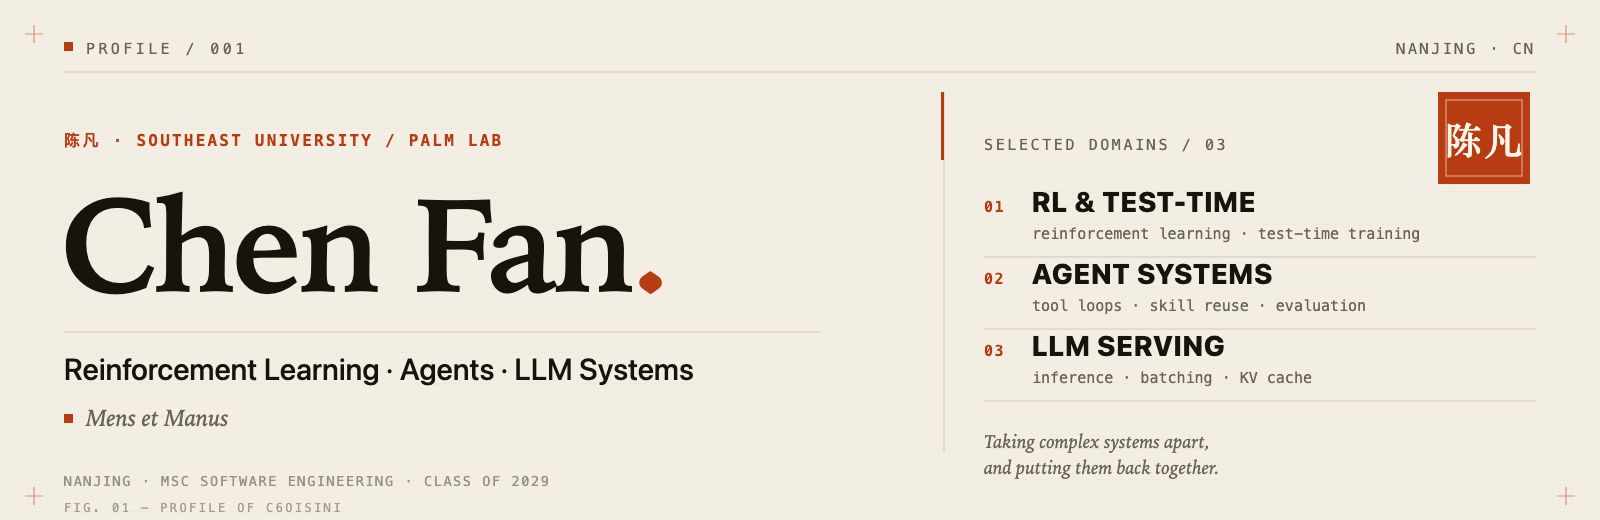
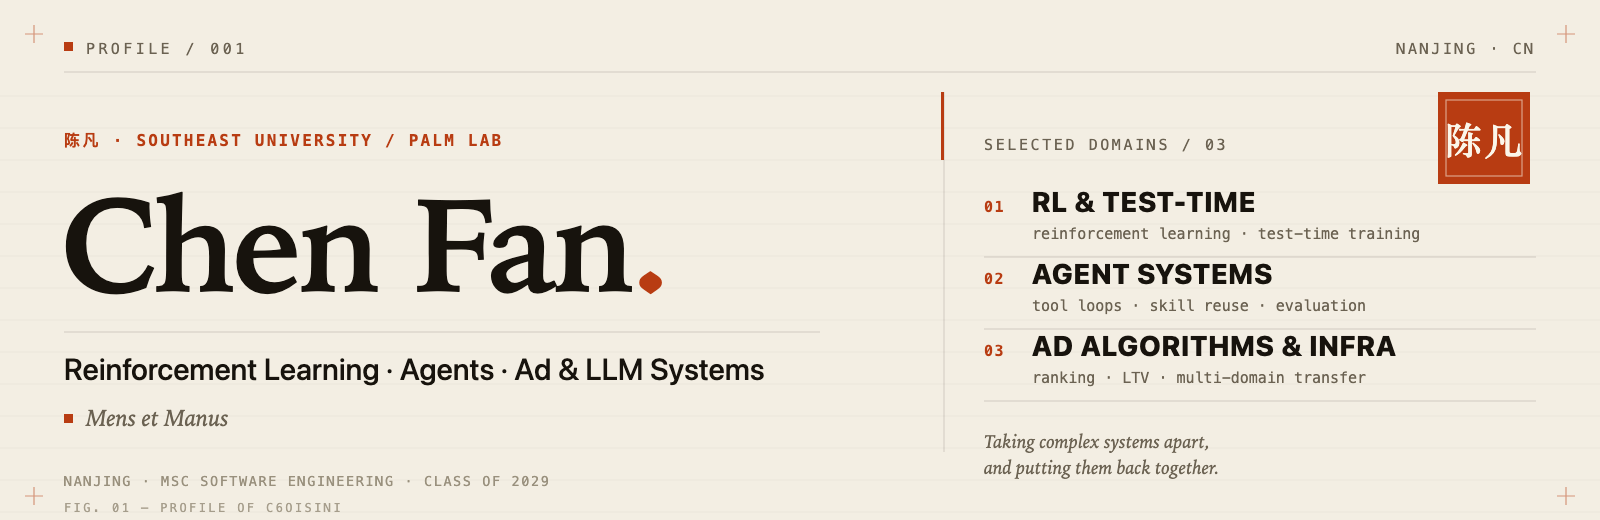
Add ad algorithms and infrastructure to the hero
Replace the LLM serving domain and README pill with ad modeling and infrastructure; keep LLM systems in the tagline.

Changed region(s): [[0.625, 0.6462, 0.875, 0.7385], [0.3125, 0.6769, 0.5, 0.7385]]

diff --git a/make_hero.py b/make_hero.py
@@ -21,7 +21,7 @@ NAME_CN = "陈凡"
 HANDLE = "C6oisini"
 LABEL = "PALM LAB"
 SCHOOL = "SOUTHEAST UNIVERSITY"
-TAGLINE = "Reinforcement Learning · Agents · LLM Systems"
+TAGLINE = "Reinforcement Learning · Agents · Ad & LLM Systems"
 MOTTO = "Mens et Manus"
 LOCATION = "NANJING · CN"
 CLASS_OF = "2029"
@@ -30,7 +30,7 @@ CLASS_OF = "2029"
 DOMAINS = [
     ("01", "RL & TEST-TIME", "reinforcement learning · test-time training"),
     ("02", "AGENT SYSTEMS", "tool loops · skill reuse · evaluation"),
-    ("03", "LLM SERVING", "inference · batching · KV cache"),
+    ("03", "AD ALGORITHMS & INFRA", "ranking · LTV · multi-domain transfer"),
 ]
 # -----------------------------------------------------------------------
 

diff --git a/README.md b/README.md
@@ -2,7 +2,7 @@
   <picture>
     <source media="(prefers-color-scheme: dark)" srcset="./assets/hero-dark.svg">
     <source media="(prefers-color-scheme: light)" srcset="./assets/hero-light.svg">
-    <img src="./assets/hero-light.svg" alt="Chen Fan — Reinforcement Learning, Agents, LLM Systems" width="100%">
+    <img src="./assets/hero-light.svg" alt="Chen Fan — Reinforcement Learning, Agents, Ad &amp; LLM Systems" width="100%">
   </picture>
 </p>
 
@@ -17,7 +17,7 @@
 </p>
 
 <p align="center">
-  <code>Reinforcement Learning</code>&nbsp; <code>Agent Systems</code>&nbsp; <code>LLM Serving</code>
+  <code>Reinforcement Learning</code>&nbsp; <code>Agent Systems</code>&nbsp; <code>Ad Algorithms &amp; Infra</code>
 </p>
 
 <p align="center">
@@ -37,7 +37,7 @@
 ### 我在做什么
 
 - **研究**：视觉语言模型 · Agent 系统 · Reinforcement Learning · Test-Time Training
-- **工程**：LLM 推理与服务 · 广告算法基础设施 · Agent 工具循环
+- **工程**：广告算法模型与基础设施 · Agent 工具循环
 - **经历**：字节跳动 Pangle 算法实习（2026.03–2026.09）
 
 ### 找到我
@@ -55,7 +55,7 @@ I'm **Fan Chen** (陈凡), a master's student in software engineering at **South
 ### What I work on
 
 - **Research** — vision-language models, agent systems, reinforcement learning, test-time training
-- **Engineering** — LLM inference and serving, advertising algorithm infrastructure, agent tool loops
+- **Engineering** — ad algorithm modeling and infrastructure, agent tool loops
 - **Previously** — algorithm intern at ByteDance Pangle (2026.03–2026.09)
 
 ### Find me

diff --git a/SETUP.md b/SETUP.md
@@ -38,7 +38,7 @@ NAME_CN = "陈凡"
 HANDLE = "C6oisini"
 LABEL = "PALM LAB"
 SCHOOL = "SOUTHEAST UNIVERSITY"
-TAGLINE = "Reinforcement Learning · Agents · LLM Systems"
+TAGLINE = "Reinforcement Learning · Agents · Ad & LLM Systems"
 MOTTO = "Mens et Manus"
 LOCATION = "NANJING · CN"
 CLASS_OF = "2029"
@@ -46,7 +46,7 @@ CLASS_OF = "2029"
 DOMAINS = [
     ("01", "RL & TEST-TIME", "reinforcement learning · test-time training"),
     ("02", "AGENT SYSTEMS", "tool loops · skill reuse · evaluation"),
-    ("03", "LLM SERVING", "inference · batching · KV cache"),
+    ("03", "AD ALGORITHMS & INFRA", "ranking · LTV · multi-domain transfer"),
 ]
 ```
 
